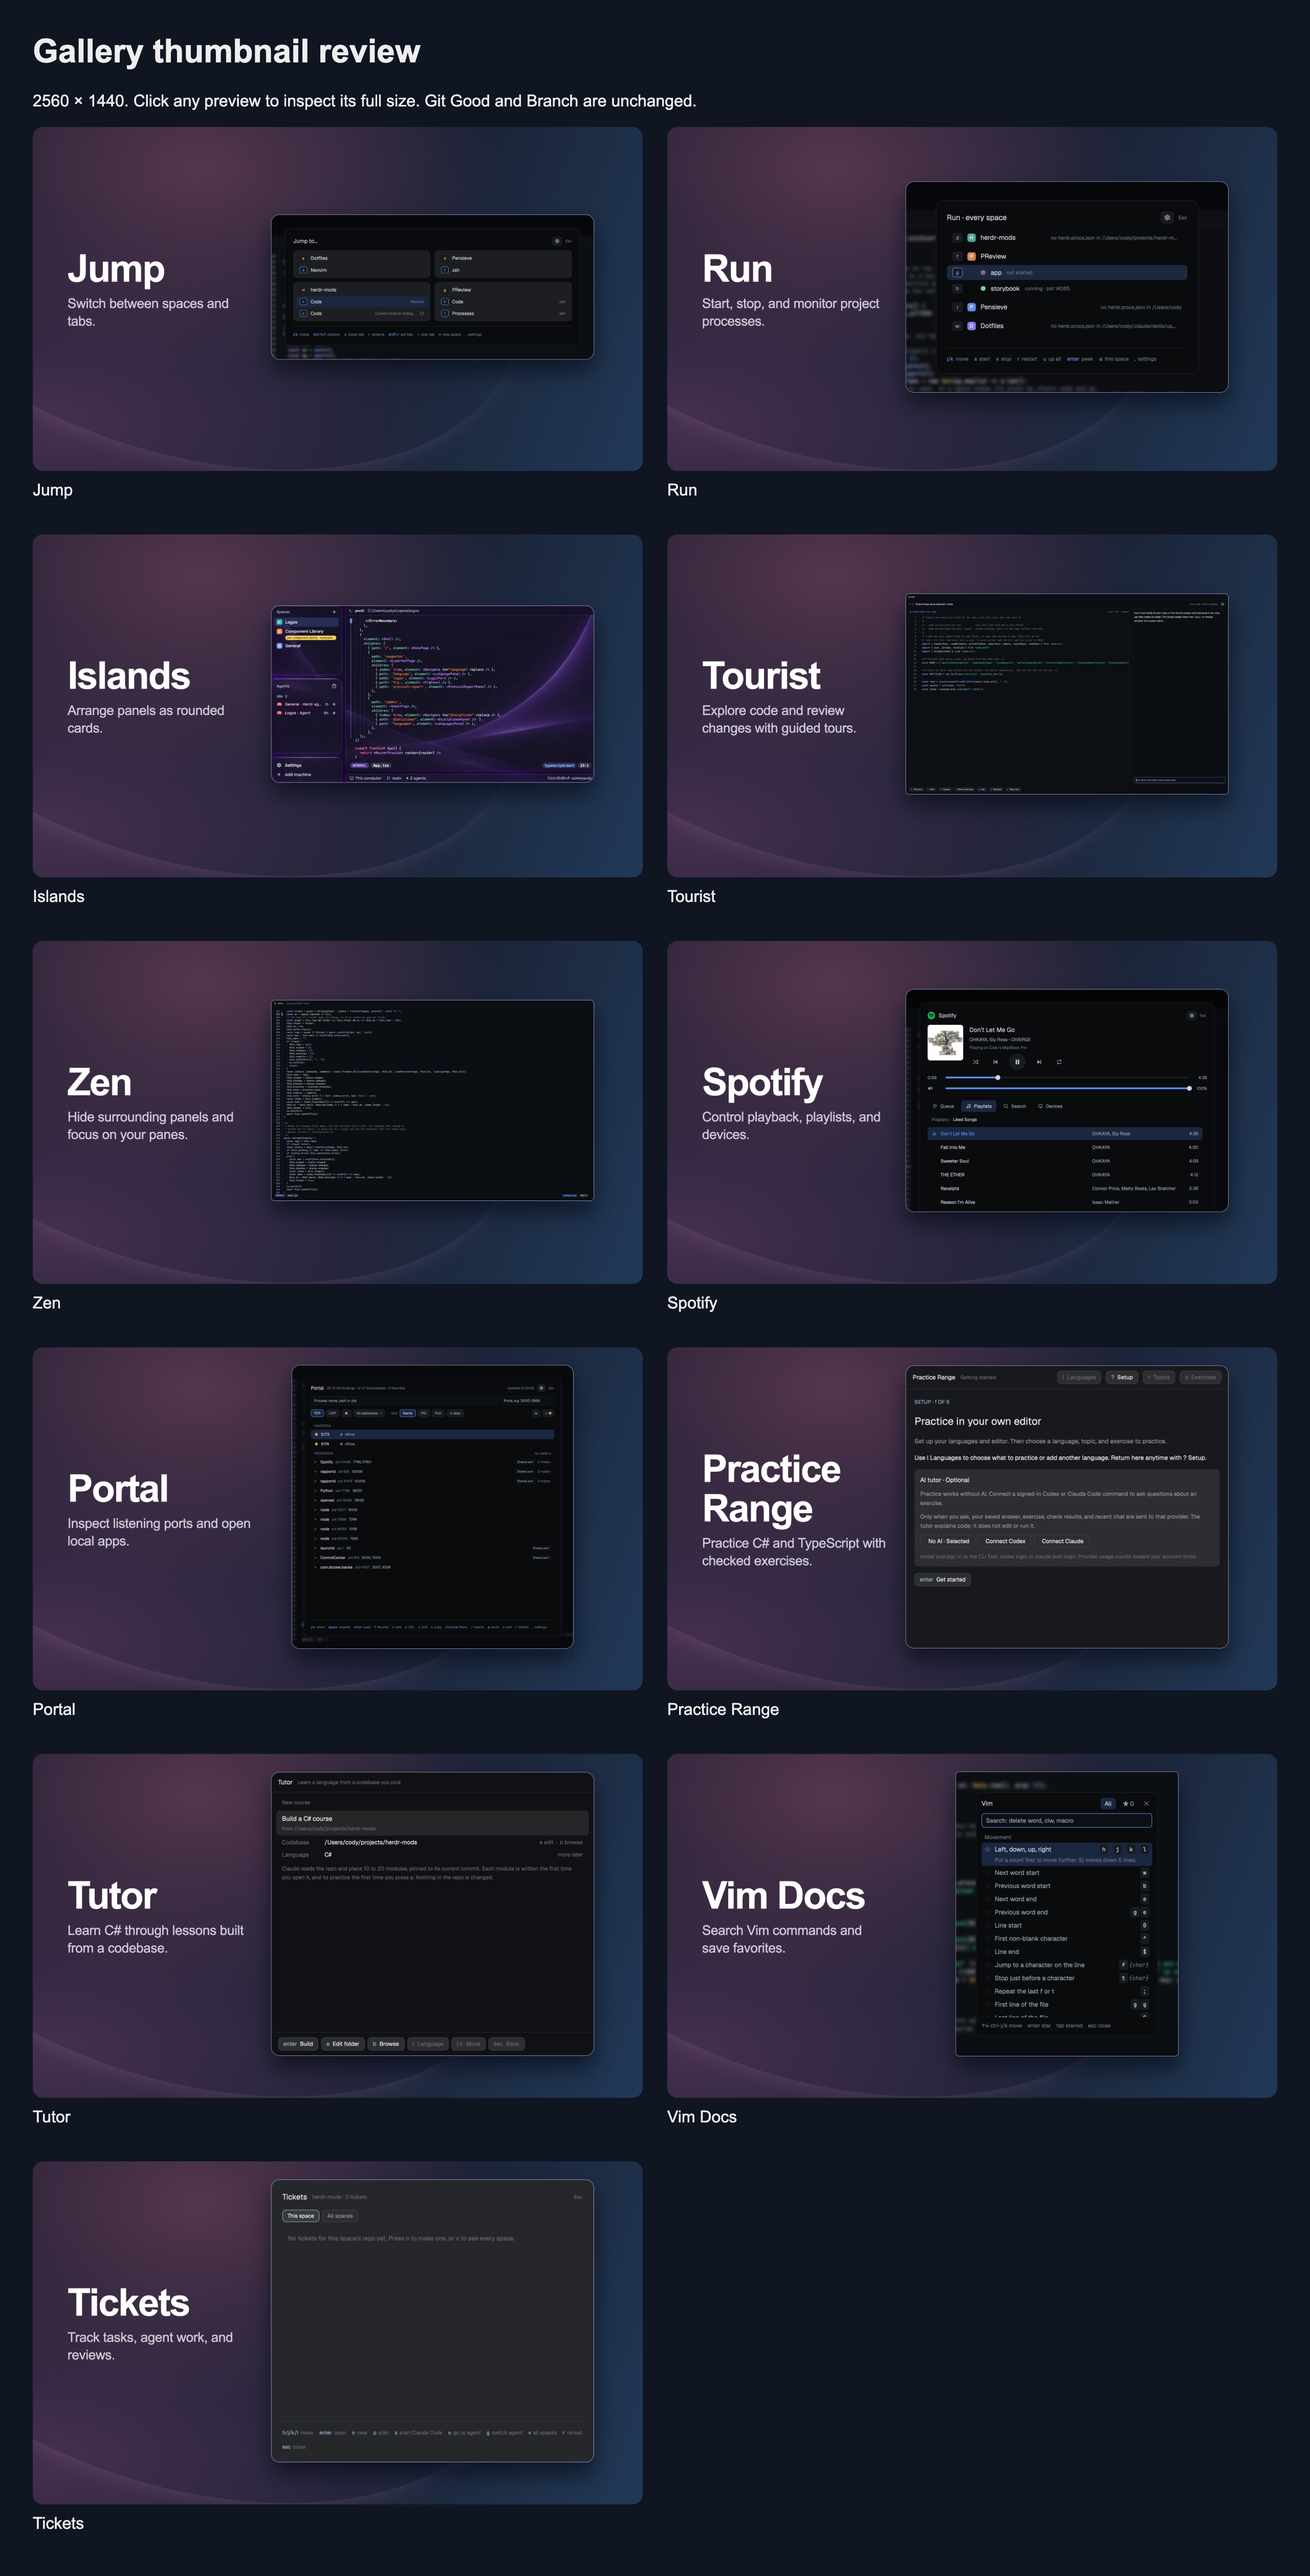
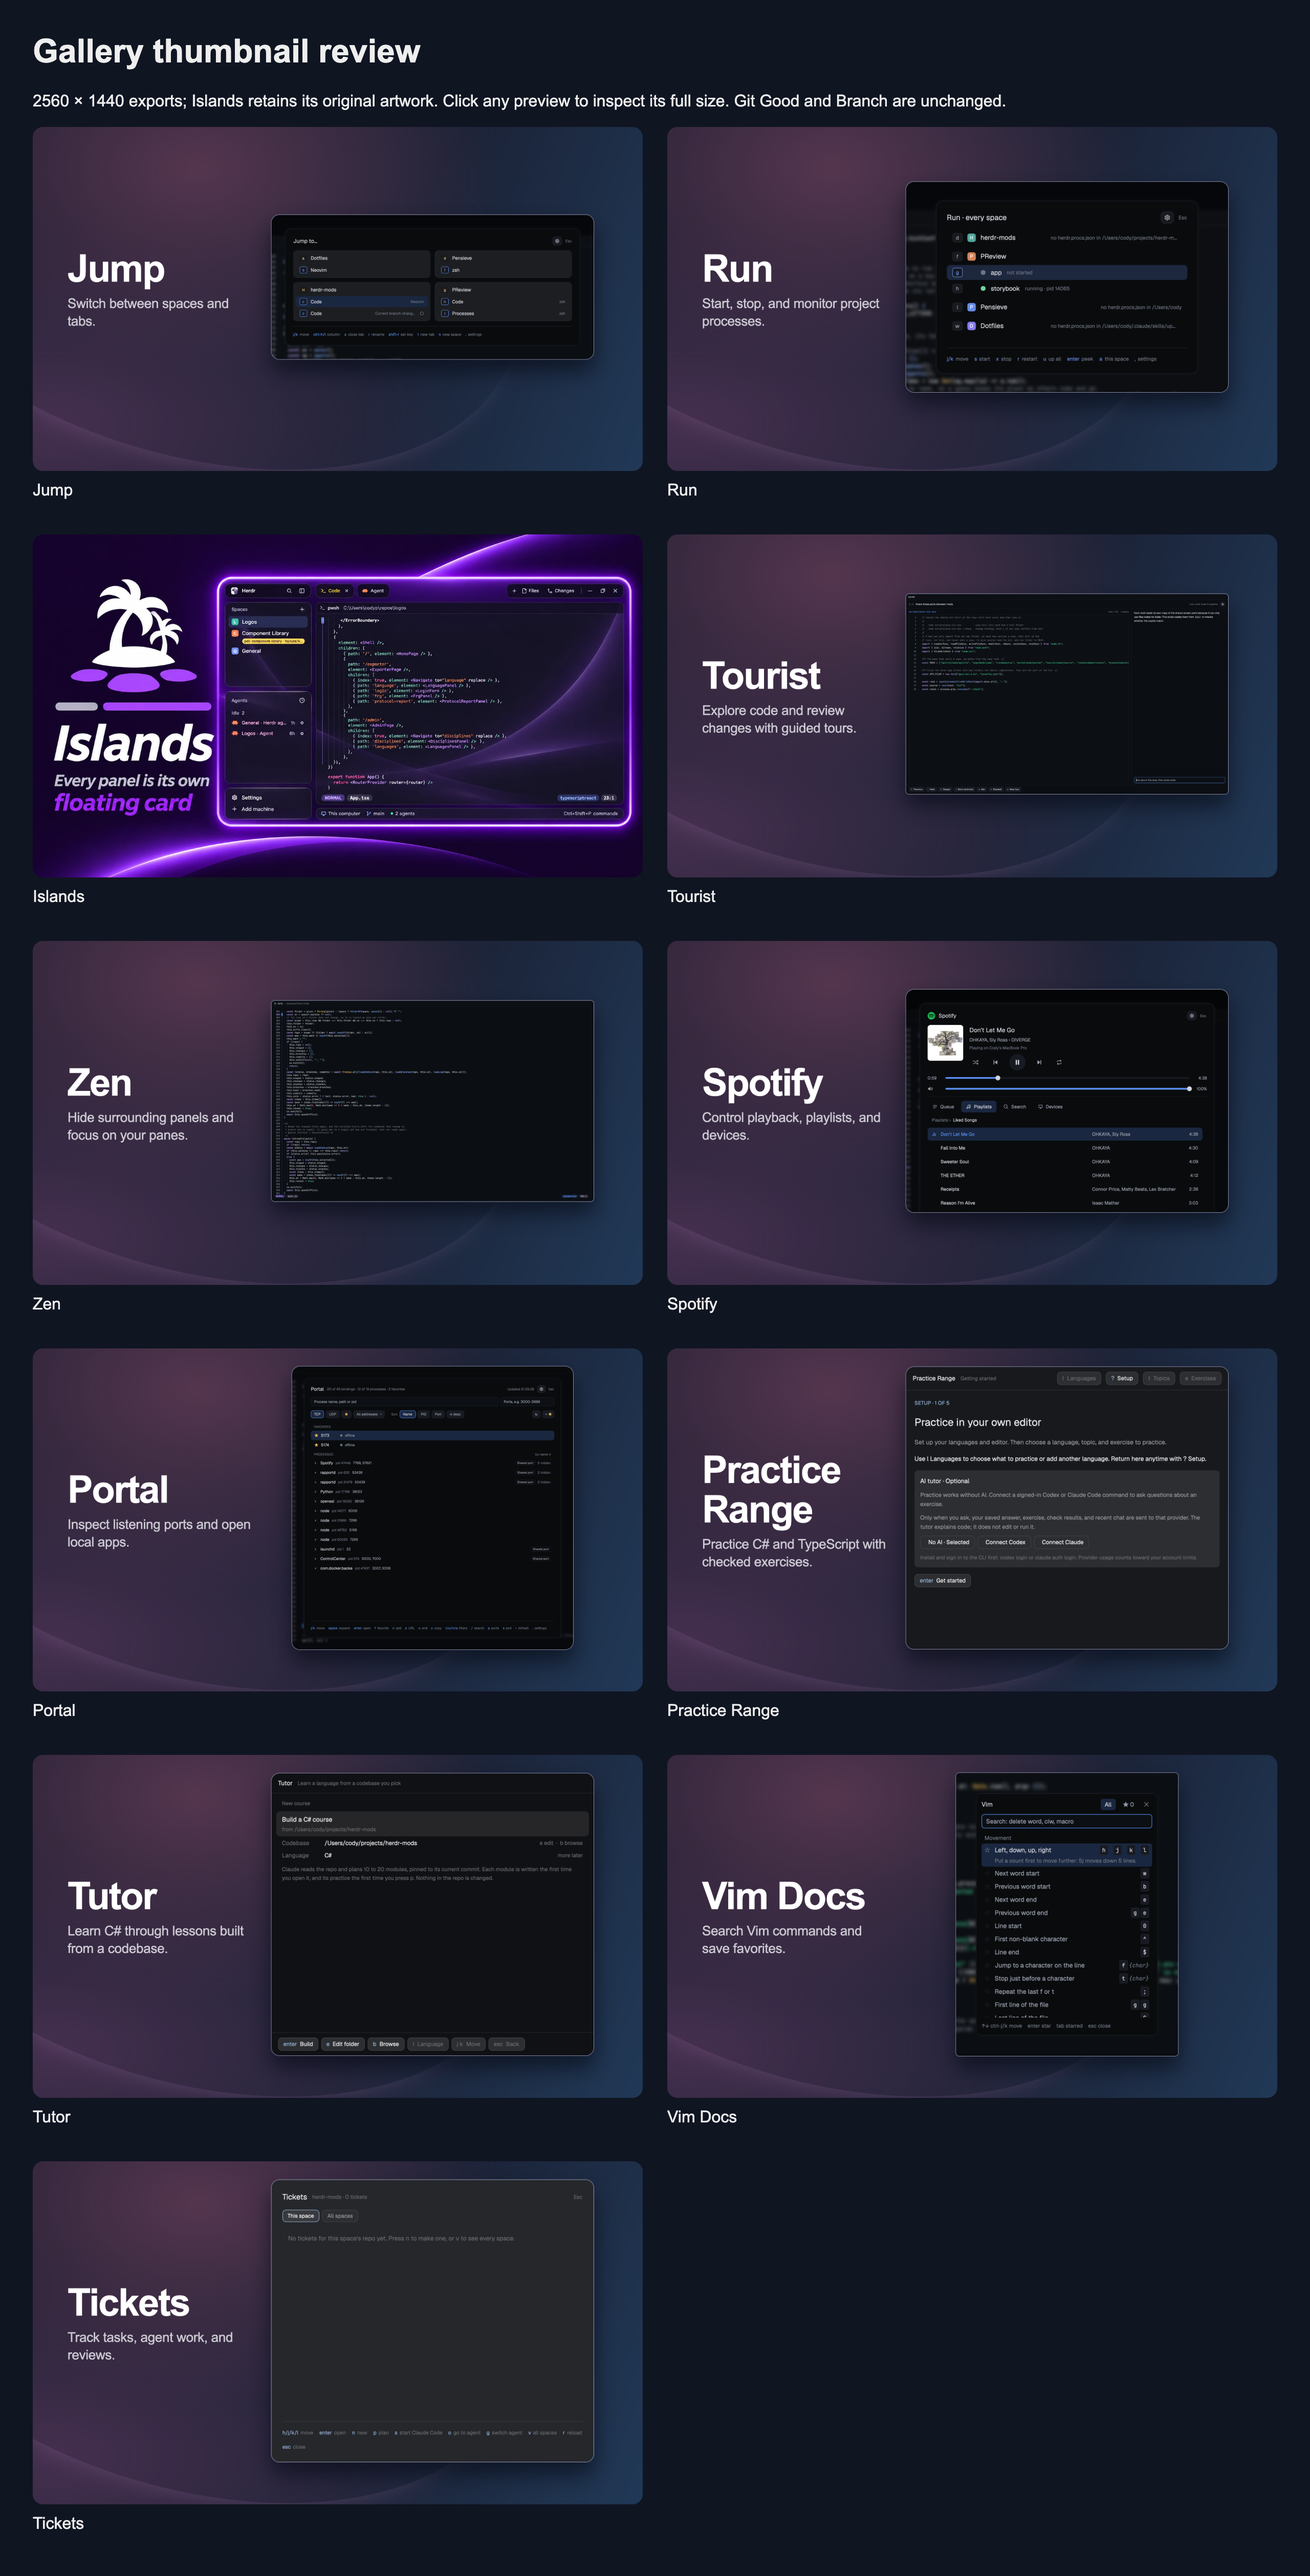
Restore original Islands gallery artwork

diff --git a/gallery/index.html b/gallery/index.html
@@ -1,1 +1,1 @@
-<!doctype html><html lang="en"><meta charset="utf-8"><title>Gallery thumbnail review</title><style>body{margin:32px;background:#101522;color:#eee;font:16px Arial}main{display:grid;grid-template-columns:repeat(2,minmax(0,1fr));gap:24px}a{color:inherit;text-decoration:none}img{width:100%;display:block;border-radius:10px}span{display:block;padding:10px 0}@media(max-width:800px){main{grid-template-columns:1fr}}</style><h1>Gallery thumbnail review</h1><p>2560 × 1440. Click any preview to inspect its full size. Git Good and Branch are unchanged.</p><main><a href="../jump/thumbnail.png"><img src="../jump/thumbnail.png" alt="Jump"><span>Jump</span></a><a href="../run/thumbnail.png"><img src="../run/thumbnail.png" alt="Run"><span>Run</span></a><a href="../islands/thumbnail.png"><img src="../islands/thumbnail.png" alt="Islands"><span>Islands</span></a><a href="../tourist/thumbnail.png"><img src="../tourist/thumbnail.png" alt="Tourist"><span>Tourist</span></a><a href="../zen/thumbnail.png"><img src="../zen/thumbnail.png" alt="Zen"><span>Zen</span></a><a href="../spotify/thumbnail.png"><img src="../spotify/thumbnail.png" alt="Spotify"><span>Spotify</span></a><a href="../portal/thumbnail.png"><img src="../portal/thumbnail.png" alt="Portal"><span>Portal</span></a><a href="../syntax/thumbnail.png"><img src="../syntax/thumbnail.png" alt="Practice Range"><span>Practice Range</span></a><a href="../tutor/thumbnail.png"><img src="../tutor/thumbnail.png" alt="Tutor"><span>Tutor</span></a><a href="../vim-docs/thumbnail.png"><img src="../vim-docs/thumbnail.png" alt="Vim Docs"><span>Vim Docs</span></a><a href="../tickets/thumbnail.png"><img src="../tickets/thumbnail.png" alt="Tickets"><span>Tickets</span></a></main></html>
+<!doctype html><html lang="en"><meta charset="utf-8"><title>Gallery thumbnail review</title><style>body{margin:32px;background:#101522;color:#eee;font:16px Arial}main{display:grid;grid-template-columns:repeat(2,minmax(0,1fr));gap:24px}a{color:inherit;text-decoration:none}img{width:100%;display:block;border-radius:10px}span{display:block;padding:10px 0}@media(max-width:800px){main{grid-template-columns:1fr}}</style><h1>Gallery thumbnail review</h1><p>2560 × 1440 exports; Islands retains its original artwork. Click any preview to inspect its full size. Git Good and Branch are unchanged.</p><main><a href="../jump/thumbnail.png"><img src="../jump/thumbnail.png" alt="Jump"><span>Jump</span></a><a href="../run/thumbnail.png"><img src="../run/thumbnail.png" alt="Run"><span>Run</span></a><a href="../islands/thumbnail.png"><img src="../islands/thumbnail.png" alt="Islands"><span>Islands</span></a><a href="../tourist/thumbnail.png"><img src="../tourist/thumbnail.png" alt="Tourist"><span>Tourist</span></a><a href="../zen/thumbnail.png"><img src="../zen/thumbnail.png" alt="Zen"><span>Zen</span></a><a href="../spotify/thumbnail.png"><img src="../spotify/thumbnail.png" alt="Spotify"><span>Spotify</span></a><a href="../portal/thumbnail.png"><img src="../portal/thumbnail.png" alt="Portal"><span>Portal</span></a><a href="../syntax/thumbnail.png"><img src="../syntax/thumbnail.png" alt="Practice Range"><span>Practice Range</span></a><a href="../tutor/thumbnail.png"><img src="../tutor/thumbnail.png" alt="Tutor"><span>Tutor</span></a><a href="../vim-docs/thumbnail.png"><img src="../vim-docs/thumbnail.png" alt="Vim Docs"><span>Vim Docs</span></a><a href="../tickets/thumbnail.png"><img src="../tickets/thumbnail.png" alt="Tickets"><span>Tickets</span></a></main></html>

diff --git a/gallery/INVENTORY.md b/gallery/INVENTORY.md
@@ -7,7 +7,7 @@ The supplied approved reference is preserved as `reference.jpg`. Branch and Git 
 | Branch | `branch/preview.png`, `branch/thumbnail.png` | Already approved. Unchanged. |
 | Jump | `jump/preview.png` | Supplied Jump screenshot, showing space and tab cards with surrounding editor blurred |
 | Run | `run/preview.png` | Supplied Run screenshot, with the surrounding editor lightly blurred |
-| Islands | `islands/preview.png` | UI crop from the old preview, showing cards and code |
+| Islands | `islands/preview.png` | Original complete artwork restored from commit `90949f0` |
 | Tourist | `tourist/preview.png` | Third supplied Tourist screenshot, showing an active tour with code and explanation |
 | Zen | `zen/preview.png`, `zen/thumbnail-v6.png` | Supplied Zen screenshot, showing the full focused editor without blur |
 | Spotify | `spotify/preview.png`, `spotify/thumbnail.png` | Supplied Spotify screenshot, showing playback and playlists with surrounding editor blurred |
@@ -17,11 +17,11 @@ The supplied approved reference is preserved as `reference.jpg`. Branch and Git 
 | Vim Docs | `vim-docs/preview.png`, `vim-docs/thumbnail.png` | Supplied Vim Docs screenshot, showing movement commands with surrounding editor blurred |
 | Tickets | None | Native empty board from `tickets-tourist-wip` |
 
-Every updated mod has a matching `preview.png` and `thumbnail.png` at 2560 × 1440. Existing tracked alternate thumbnail names also receive the new image. The six `islands-*` implementation mods are presented together as Islands. `kit` is shared source. `personal-sync/usage-limits` explicitly excludes itself from gallery submission.
+Every updated mod has a matching `preview.png` and `thumbnail.png` at 2560 × 1440, except Islands, which preserves its original artwork and dimensions. Existing tracked alternate thumbnail names also receive the new image. The six `islands-*` implementation mods are presented together as Islands. `kit` is shared source. `personal-sync/usage-limits` explicitly excludes itself from gallery submission.
 
 This branch is based on main. Tickets is present in the user's work branch, so only its gallery assets are added here. Its implementation stays on that work branch. Existing untracked thumbnail experiments in the original checkout are untouched.
 
-One screenshot reuses the UI panel from the old images at commit `90949f0`. Jump, Run, Spotify, Portal, and Vim Docs use the supplied screenshots with an 8 px background blur and the original dialog pixels preserved. Spotify is cropped to playback controls and the first playlist rows for legibility. Zen and Tourist use the supplied full editor and tour views without blur. Crop coordinates and blur settings are in `screenshot-crops.json`. Perspective is straightened by resampling the existing pixels. No UI is generated or redrawn. Outer promotional artwork and glowing frames are cropped away. Practice Range, Tutor, and Tickets have no older image in Git history, so their native captures remain unchanged. UI key legends and control icons remain inside the screenshots. No promotional branding, badges, icons, key callouts, or slogans were added.
+Islands preserves the complete original artwork from commit `90949f0`; the renderer keeps this exception intact. Jump, Run, Spotify, Portal, and Vim Docs use the supplied screenshots with an 8 px background blur and the original dialog pixels preserved. Spotify is cropped to playback controls and the first playlist rows for legibility. Zen and Tourist use the supplied full editor and tour views without blur. Crop coordinates and blur settings are in `screenshot-crops.json`. Perspective is straightened by resampling the existing pixels. No UI is generated or redrawn. Outer promotional artwork and glowing frames are cropped away for the redesigned thumbnails. Practice Range, Tutor, and Tickets have no older image in Git history, so their native captures remain unchanged. UI key legends and control icons remain inside the screenshots. No promotional branding, badges, icons, key callouts, or slogans were added.
 
 The shared composition is in `template.html`, designed at 1280 × 720 and exported at 2× resolution for sharp text on Retina displays. Titles, descriptions, prior assets, and screen states are in `mods.json`. To reproduce with Playwright and Chrome installed:
 

diff --git a/README.md b/README.md
@@ -28,7 +28,7 @@ Read ~/.config/herdr-app/AGENTS.md, then add this mod: https://github.com/CodeyP
 ---
 ### [islands](islands/)
 
-[<img src="islands/preview.png?v=605c9c8f679e" width="720" alt="islands">](islands/)
+[<img src="islands/preview.png?v=83ffc6ede6af" width="720" alt="islands">](islands/)
 
 Herdr with every panel as its own rounded card on the canvas, in whatever theme you pick.
 

diff --git a/islands/README.md b/islands/README.md
@@ -2,7 +2,7 @@
 
 Herdr with every panel as its own rounded card on the canvas, in whatever theme you pick.
 
-![islands](preview.png?v=605c9c8f679e)
+![islands](preview.png?v=83ffc6ede6af)
 
 Herdr, but every panel is its own rounded card on the canvas. IntelliJ Islands, basically. Takes whatever theme you pick.
 

diff --git a/islands/RECIPE.md b/islands/RECIPE.md
@@ -7,7 +7,7 @@ graphite, paper, or any `themes/*.json` you have. Six small
 mod clones round off the shipped bars and lists so nothing pokes out of a
 card, and turn the tab bar's controls into pills.
 
-![Islands](preview.png?v=605c9c8f679e)
+![Islands](preview.png?v=83ffc6ede6af)
 
 ## What you see
 
